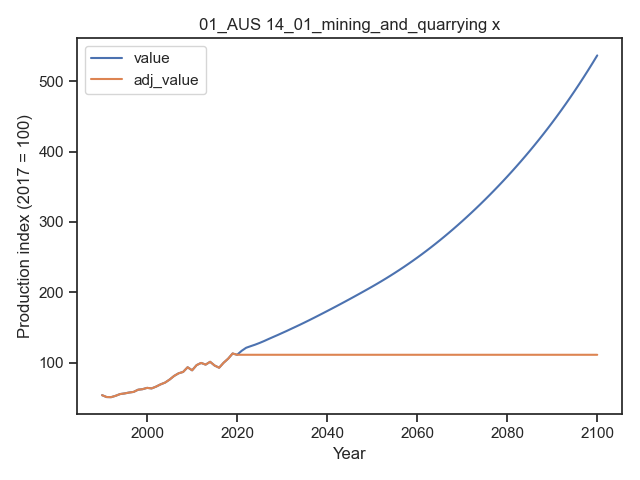
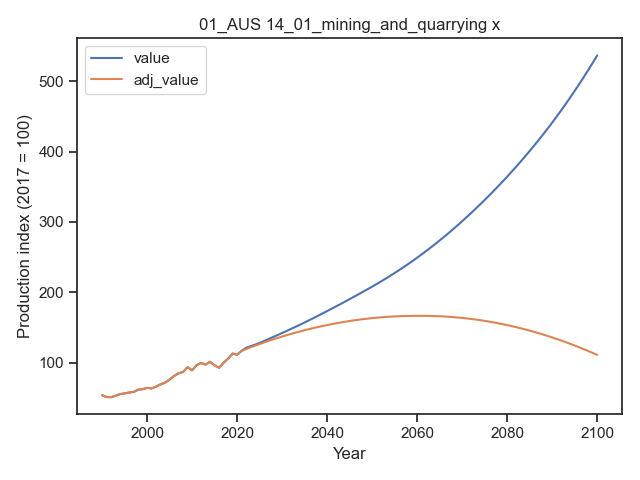
traj_updates

Changed region(s): [[0.375, 0.6875, 0.9375, 0.75], [0.4688, 0.6562, 0.8125, 0.6875]]

diff --git a/workflow/scripts/useful_functions.py b/workflow/scripts/useful_functions.py
@@ -25,10 +25,68 @@ def modify_trajectory(time_series, chosen_year, new_trajectory):
     return modified_series
 
 
+# import numpy as np
+# from scipy.interpolate import interp1d
+
+# def generate_smooth_curve(num_points, shape, start_value, end_value, apex_point = None, apex_position = None):
+#     """
+#     Generates a smooth curve based on the specified shape.
+
+#     Args:
+#         num_points (int): The number of points to generate in the smooth curve.
+#         shape (str): The shape of the smooth curve ('increase', 'decrease',
+#                      'constant', 'peak', or 'bottom').
+#         start_value (float): The starting value of the curve.
+#         end_value (float): The ending value of the curve.
+#         apex_point (float, optional): The position of the apex along the x-axis.
+#                                      Only applicable for 'peak' or 'bottom' shapes.
+
+#     Returns:
+#         numpy.ndarray: The smooth curve values.
+#     """
+#     if shape == 'constant':
+#         return np.full(num_points, start_value)
+
+#     x = np.linspace(start_value, end_value, num_points)
+#     y = np.zeros(num_points)
+
+#     if shape == 'increase':
+#         y = start_value + (end_value - start_value) * ((x - start_value) / (end_value - start_value)) ** 2
+
+#     elif shape == 'decrease':
+#         y = end_value - (end_value - start_value) * ((end_value - x) / (end_value - start_value)) ** 2
+
+#     elif shape == 'peak' or shape == 'bottom':
+#         if apex_point is None:
+#             raise ValueError("Apex point must be specified for 'peak' or 'bottom' shapes.")
+        
+#         if apex_position is None:
+#             apex_position = 0.5 # Default
+
+#         if apex_position < 0 or apex_position > 1:
+#             raise ValueError("Apex position must be between 0 and 1.")
+        
+#         apex_x = start_value + (end_value - start_value) * apex_position
+
+#         x_left = np.linspace(start_value, apex_x, int(num_points * apex_position) + 1)
+#         x_right = np.linspace(apex_x, end_value, num_points - int(num_points * apex_position))
+#         y_left = apex_point - (apex_point - start_value) * ((apex_x - x_left) / (apex_x - start_value)) ** 2
+#         y_right = apex_point + (end_value - apex_point) * ((x_right - apex_x) / (end_value - apex_x)) ** 2
+#         y[:int(num_points * apex_position) + 1] = y_left
+#         y[int(num_points * apex_position) + 1:] = y_right
+
+#     else:
+#         raise ValueError("Invalid shape. Supported shapes are 'increase', 'decrease', 'constant', 'peak', or 'bottom'.")
+
+#     f = interp1d(x, y, kind = 'quadratic')
+#     interpolated_curve = f(np.linspace(start_value, end_value, num_points))
+
+#     return interpolated_curve
+
 import numpy as np
 from scipy.interpolate import interp1d
 
-def generate_smooth_curve(num_points, shape, start_value, end_value):
+def generate_smooth_curve(num_points, shape, start_value, end_value, apex_point = None):
     """
     Generates a smooth curve based on the specified shape.
 
@@ -36,24 +94,102 @@ def generate_smooth_curve(num_points, shape, start_value, end_value):
         num_points (int): The number of points to generate in the smooth curve.
         shape (str): The shape of the smooth curve ('increase', 'decrease',
                      'constant', 'peak', or 'bottom').
+        start_value (float): The starting value of the curve.
+        end_value (float): The ending value of the curve.
+        apex_point (float, optional): The position of the apex along the x-axis.
+                                     Only applicable for 'peak' or 'bottom' shapes.
 
     Returns:
         numpy.ndarray: The smooth curve values.
     """
+    if shape == 'constant':
+        return np.full(num_points, start_value)
+
     x = np.linspace(start_value, end_value, num_points)
     y = np.zeros(num_points)
 
-    if (shape == 'increase') | (shape == 'decrease'):
-        y = x
+    if shape == 'increase':
+        y = start_value + (end_value - start_value) * ((x - start_value) / (end_value - start_value)) ** 2
 
-    elif shape == 'constant':
-        y = np.linspace(start_value, start_value, num_points)
+    elif shape == 'decrease':
+        y = end_value - (end_value - start_value) * ((end_value - x) / (end_value - start_value)) ** 2
 
-    elif (shape == 'peak') | (shape == 'bottom'):
-        y[:num_points//2] = x[:num_points//2]
-        y[num_points//2:] = x[:num_points//2][::-1]
+    elif shape == 'peak' or shape == 'bottom':
+        if apex_point is None:
+            raise ValueError("Apex point must be specified for 'peak' or 'bottom' shapes.")
+        # HUUUUUH
+        apex_index = int((apex_point - start_value) / (end_value - start_value) * num_points)
 
-    f = interp1d(x, y, kind = 'cubic')
-    interpolated_curve = f(np.linspace(start_value, end_value, len(x)))
+        x_left = np.linspace(start_value, apex_point, num_points // 2)
+        x_right = np.linspace(apex_point, end_value, num_points - num_points // 2)
+        y_left = apex_point - (apex_point - start_value) * ((apex_point - x_left) / (apex_point - start_value)) ** 2
+        y_right = apex_point + (end_value - apex_point) * ((x_right - apex_point) / (end_value - apex_point)) ** 2
+        y[:num_points // 2] = y_left
+        y[num_points // 2:] = y_right
+
+    else:
+        raise ValueError("Invalid shape. Supported shapes are 'increase', 'decrease', 'constant', 'peak', or 'bottom'.")
+
+    f = interp1d(x, y, kind = 'quadratic')
+    interpolated_curve = f(np.linspace(start_value, end_value, num_points))
 
     return interpolated_curve
+
+# import numpy as np
+# from scipy.interpolate import interp1d
+
+# def generate_smooth_curve(num_points, shape, start_value, end_value, apex_point=None, apex_position=None):
+#     """
+#     Generates a smooth curve based on the specified shape.
+
+#     Args:
+#         num_points (int): The number of points to generate in the smooth curve.
+#         shape (str): The shape of the smooth curve ('increase', 'decrease',
+#                      'constant', 'peak', or 'bottom').
+#         start_value (float): The starting value of the curve.
+#         end_value (float): The ending value of the curve.
+#         apex_point (float, optional): The position of the apex along the x-axis.
+#                                      Only applicable for 'peak' or 'bottom' shapes.
+
+#     Returns:
+#         numpy.ndarray: The smooth curve values.
+#     """
+#     if shape == 'constant':
+#         return np.full(num_points, start_value)
+
+#     x = np.linspace(start_value, end_value, num_points)
+#     y = np.zeros(num_points)
+
+#     if shape == 'increase':
+#         y = start_value + (end_value - start_value) * ((x - start_value) / (end_value - start_value)) ** 2
+
+#     elif shape == 'decrease':
+#         y = end_value - (end_value - start_value) * ((end_value - x) / (end_value - start_value)) ** 2
+
+#     elif shape == 'peak' or shape == 'bottom':
+#         if apex_point is None:
+#             raise ValueError("Apex point must be specified for 'peak' or 'bottom' shapes.")
+
+#         if apex_position is None:
+#             apex_position = 0.5  # Default
+
+#         if apex_position < 0 or apex_position > 1:
+#             raise ValueError("Apex position must be between 0 and 1.")
+
+#         apex_x = start_value + (end_value - start_value) * apex_position
+
+#         x_left = np.linspace(start_value, apex_x, int(num_points * apex_position) + 1)
+#         x_right = np.linspace(apex_x, end_value, num_points - int(num_points * apex_position))
+#         y_left = apex_point - (apex_point - start_value) * ((apex_x - x_left) / (apex_x - start_value)) ** 2
+#         y_right = apex_point + (end_value - apex_point) * ((x_right - apex_x) / (end_value - apex_x)) ** 2
+#         y[:int(num_points * apex_position) + 1] = y_left
+#         y[int(num_points * apex_position) + 1:] = y_right
+
+#     else:
+#         raise ValueError("Invalid shape. Supported shapes are 'increase', 'decrease', 'constant', 'peak', or 'bottom'.")
+
+#     f = interp1d(x, y, kind='quadratic')
+#     interpolated_curve = f(np.linspace(start_value, end_value, num_points))
+
+#     return interpolated_curve
+

diff --git a/workflow/scripts/d2_projection_adjust.py b/workflow/scripts/d2_projection_adjust.py
@@ -24,12 +24,15 @@ industry_production = pd.read_csv('./data/industry_projections/interim_all_secto
 # Define years dictionary tp adjust later 
 years = [i for i in range(1980, 2101, 1)]
 
+# Function definition to override modelled trajectory
+
 def industry_traj(economy = '01_AUS', 
             sub1sectors = '14_01_mining_and_quarrying', 
             sub2sectors = 'x',
             proj_start_year = 2021,
             shape = 'increase',
             magnitude = 1.5,
+            apex_choice = 1.5,
             data = industry_production):
     
     # Where to save files
@@ -49,24 +52,77 @@ def industry_traj(economy = '01_AUS',
     refined_df['adj_value'] = np.nan
 
     # Want to build a new trajectory: up, down, bottom, top, constant
+    traj_start = refined_df.loc[proj_start_year, 'value'] 
     traj_end = refined_df.loc[proj_start_year, 'value'] * magnitude
+    apex = apex_choice * traj_end
 
+    # Choose position
+    #ap = position
+    
     # Generate new trajectory 
     outcome = generate_smooth_curve(num_points = max(years) - proj_start_year + 1, 
-                          shape = shape,
-                          start_value = refined_df.loc[proj_start_year, 'value'],
-                          end_value = traj_end)
+                                    shape = shape,
+                                    start_value = traj_start,
+                                    end_value = traj_end,
+                                    apex_point = apex)
     
-    print(type(outcome))
+    outcome_df = pd.DataFrame(outcome, index = range(proj_start_year, max(refined_df.index) + 1))
 
-    # Isolate time series
-    adj_series = refined_df.copy()[['value']].squeeze().to_dict()
+    # Populate the adj_value column in refined_df
+    
+    for year in refined_df.index:
+        if year < proj_start_year:
+            refined_df.loc[year, 'adj_value'] = refined_df.loc[year, 'value']
+        elif year >= proj_start_year:
+            refined_df.loc[year, 'adj_value'] = outcome_df.loc[year, 0] 
 
-    # Now generate modify current trajectory
+    # Reset index
+    refined_df = refined_df.copy().reset_index()
 
+    # Now generate charts
+    chart_df = refined_df.copy().melt(id_vars = ['year', 'economy', 'economy_code', 'series', 'units', 'sub1sectors', 'sub2sectors'], 
+                                      value_vars = ['value', 'adj_value'], 
+                                      value_name = 'production_value')
 
-industry_traj()
+    fig, ax = plt.subplots()
 
+    sns.set_theme(style = 'ticks')
+
+    sns.lineplot(data = chart_df,
+                x = 'year',
+                y = 'production_value',
+                hue = 'variable')
+
+    ax.set(title = economy + ' ' + sub1sectors + ' ' + sub2sectors,
+           xlabel = 'Year',
+           ylabel = 'Production index (2017 = 100)')
+
+    plt.legend(title = '')
+
+    plt.tight_layout()
+    plt.show()
+
+    if sub2sectors == 'x':
+        fig.savefig(industry_final + economy + '_' + sub1sectors + '.png')
+    elif sub1sectors == '14_03_manufacturing':
+        fig.savefig(industry_final + economy + '_' + sub2sectors + '.png')
+    else:
+        pass
+    
+    plt.close()
+
+    adj_data = refined_df.copy()[['economy', 'economy_code', 'series', 'year', 'units', 'sub1sectors', 'sub2sectors', 'adj_value']]\
+        .rename(columns = {'adj_value': 'value'})
+    
+    if sub2sectors == 'x':
+        adj_data.to_csv(industry_final + economy + '_' + sub1sectors + '.csv', index = False)
+    elif sub1sectors == '14_03_manufacturing':
+        adj_data.to_csv(industry_final + economy + '_' + sub2sectors + '.csv', index = False)
+    else:
+        pass
+
+##########################################################################################################
+# Manual adjustment function
 
 def industry_adj(economy = '01_AUS', 
             sub1sectors = '14_01_mining_and_quarrying', 
@@ -163,7 +219,7 @@ def industry_adj(economy = '01_AUS',
 
 # Test function runs
 industry_adj(economy = '05_PRC',
-             adjustment = False,
+             adjustment = True,
              adjust = {}, 
              increment = -0.01,
              proj_start_year = 2023, 
@@ -172,80 +228,12 @@ industry_adj(economy = '05_PRC',
 
 industry_adj(economy = '01_AUS', adjust = {2025: 1.15, 2029: 1.25}, adjustment = True, increment = 0.0) 
 
+industry_traj(economy = '05_PRC', 
+              sub1sectors = '14_03_manufacturing', 
+              sub2sectors = '14_03_01_iron_and_steel', 
+              magnitude = -0.1,
+              apex_choice = 1.1,
+              shape = 'peak',
+              proj_start_year = 2024)
 
-
-# CHAT GPT suggestions
-
-def modify_trajectory(time_series, chosen_year, new_trajectory):
-    """
-    Modifies the trajectory from a chosen year in the annual time series.
-
-    Args:
-        time_series (dict): The original annual time series.
-        chosen_year (int): The year to overwrite the trajectory.
-        new_trajectory (list): The new trajectory shape to replace the chosen year.
-
-    Returns:
-        dict: The modified annual time series with the new trajectory shape.
-    """
-    modified_series = {}
-
-    for year, value in time_series.items():
-        if year < chosen_year:
-            modified_series[year] = value
-        elif year == chosen_year:
-            modified_series[year] = value
-        else:
-            modified_series[year] = new_trajectory.pop(0)
-
-    return modified_series
-
-
-import numpy as np
-from scipy.interpolate import interp1d
-
-def generate_smooth_curve(num_points, shape, start_value):
-    """
-    Generates a smooth curve based on the specified shape.
-
-    Args:
-        num_points (int): The number of points to generate in the smooth curve.
-        shape (str): The shape of the smooth curve ('increase', 'decrease',
-                     'constant', 'peak', or 'bottom').
-
-    Returns:
-        numpy.ndarray: The smooth curve values.
-    """
-    x = np.linspace(start_value, 1, num_points)
-    y = np.zeros(num_points)
-
-    if shape == 'increase':
-        y = x
-
-    elif shape == 'decrease':
-        y = 1 - x
-
-    elif shape == 'constant':
-        y = np.ones(num_points)
-
-    elif shape == 'peak':
-        y[:num_points//2] = x[:num_points//2]
-        y[num_points//2:] = 1 - x[num_points//2:]
-
-    elif shape == 'bottom':
-        y[:num_points//2] = 1 - x[:num_points//2]
-        y[num_points//2:] = x[num_points//2:]
-
-    f = interp1d(x, y, kind='cubic')
-    interpolated_curve = f(np.linspace(0, 1, len(x)))
-
-    return interpolated_curve
-
-
-num_points = 10
-shape = 'decrease'
-
-smooth_curve = generate_smooth_curve(num_points, shape)
-print(smooth_curve)
-
- 
+industry_traj(shape = 'peak', magnitude = 0.95)

diff --git a/config/config_apr2023.py b/config/config_apr2023.py
@@ -40,7 +40,7 @@ import math
 import itertools
 from itertools import chain, combinations
 import warnings
-from scipy.interpolate import interp1d
+from scipy.interpolate import interp1d, splev, splrep
 
 # Set directory
 os.chdir(re.split('industry_model_9th_edition', os.getcwd())[0] + 'industry_model_9th_edition')
